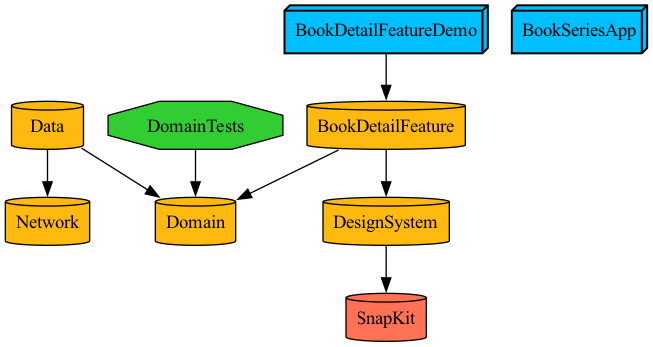
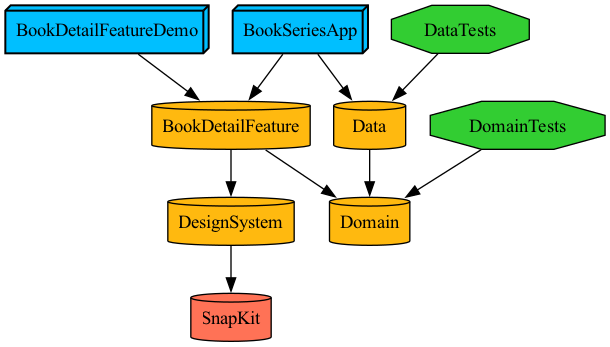
feat. fetch books use case 연결

diff --git a/Feature/BookDetail/Sources/BookDetailViewModel.swift b/Feature/BookDetail/Sources/BookDetailViewModel.swift
@@ -8,7 +8,7 @@
 import Foundation
 import Domain
 
-public class BookDetailViewModel {
+public final class BookDetailViewModel {
     private let fetchBookUseCase: FetchBooksUseCase?
     private var bookModels: [BookDetailModel] = []
     private var currentModelId: UUID?
@@ -16,148 +16,7 @@ public class BookDetailViewModel {
     // Mock 데이터용 초기화
     public init(fetchBookUseCase: FetchBooksUseCase? = nil) {
         self.fetchBookUseCase = fetchBookUseCase
-        setupMockModels()
     }
-    
-    private func setupMockModels() {
-        bookModels = mockBooks.enumerated().map { index, book in
-            BookDetailModel(seriesOrder: index + 1, book: book)
-        }
-        currentModelId = bookModels.first?.id
-    }
-    
-    // MARK: - Mock Data
-    private let mockBooks: [Book] = [
-        // 1권
-        Book(
-            title: "Harry Potter and the Philosopher's Stone",
-            author: "J. K. Rowling",
-            pages: 223,
-            releaseDate: "1997-06-26",
-            dedication: "For Jessica, who loves stories, for Anne, who loved them too, and for Di, who heard this one first",
-            summary: "Harry Potter has never even heard of Hogwarts when the letters start dropping on the doormat at number four, Privet Drive.",
-            wiki: "https://harrypotter.fandom.com/wiki/Harry_Potter_and_the_Philosopher's_Stone",
-            chapters: [
-                Chapter(title: "1. The Boy Who Lived"),
-                Chapter(title: "2. The Vanishing Glass"),
-                Chapter(title: "3. The Letter from No One"),
-                Chapter(title: "4. The Keeper of the Keys"),
-                Chapter(title: "5. Diagon Alley"),
-                Chapter(title: "1. The Boy Who Lived"),
-                Chapter(title: "2. The Vanishing Glass"),
-                Chapter(title: "3. The Letter from No One"),
-                Chapter(title: "4. The Keeper of the Keys"),
-                Chapter(title: "5. Diagon Alley"),
-                Chapter(title: "1. The Boy Who Lived"),
-                Chapter(title: "2. The Vanishing Glass"),
-                Chapter(title: "3. The Letter from No One"),
-                Chapter(title: "4. The Keeper of the Keys"),
-                Chapter(title: "5. Diagon Alley")
-            ]
-        ),
-        // 2권
-        Book(
-            title: "Harry Potter and the Chamber of Secrets",
-            author: "J. K. Rowling",
-            pages: 251,
-            releaseDate: "1998-07-02",
-            dedication: "For Séan P. F. Harris, getaway driver and foul-weather friend",
-            summary: "Harry Potter's summer has included the worst birthday ever, doomy warnings from a house-elf called Dobby.",
-            wiki: "https://harrypotter.fandom.com/wiki/Harry_Potter_and_the_Chamber_of_Secrets",
-            chapters: [
-                Chapter(title: "1. The Worst Birthday"),
-                Chapter(title: "2. Dobby's Warning"),
-                Chapter(title: "3. The Burrow"),
-                Chapter(title: "4. At Flourish and Blotts"),
-                Chapter(title: "5. The Whomping Willow")
-            ]
-        ),
-        // 3권
-        Book(
-            title: "Harry Potter and the Prisoner of Azkaban",
-            author: "J. K. Rowling",
-            pages: 317,
-            releaseDate: "1999-07-08",
-            dedication: "To Jill Prewett and Aine Kiely, the Godmothers of Swing",
-            summary: "When the Knight Bus crashes through the darkness and screeches to a halt in front of him, it's the start of another far from ordinary year at Hogwarts for Harry Potter.",
-            wiki: "https://harrypotter.fandom.com/wiki/Harry_Potter_and_the_Prisoner_of_Azkaban",
-            chapters: [
-                Chapter(title: "1. Owl Post"),
-                Chapter(title: "2. Aunt Marge's Big Mistake"),
-                Chapter(title: "3. The Knight Bus"),
-                Chapter(title: "4. The Leaky Cauldron"),
-                Chapter(title: "5. The Dementor")
-            ]
-        ),
-        // 4권
-        Book(
-            title: "Harry Potter and the Goblet of Fire",
-            author: "J. K. Rowling",
-            pages: 636,
-            releaseDate: "2000-07-08",
-            dedication: "To Peter Rowling, in memory of Mr Ridley and to Susan Sladden, who helped Harry out of his cupboard",
-            summary: "The Triwizard Tournament is to be held at Hogwarts. Only wizards who are over seventeen are allowed to enter.",
-            wiki: "https://harrypotter.fandom.com/wiki/Harry_Potter_and_the_Goblet_of_Fire",
-            chapters: [
-                Chapter(title: "1. The Riddle House"),
-                Chapter(title: "2. The Scar"),
-                Chapter(title: "3. The Invitation"),
-                Chapter(title: "4. Back to The Burrow"),
-                Chapter(title: "5. Weasley's Wizard Wheezes")
-            ]
-        ),
-        // 5권
-        Book(
-            title: "Harry Potter and the Order of the Phoenix",
-            author: "J. K. Rowling",
-            pages: 766,
-            releaseDate: "2003-06-21",
-            dedication: "To Neil, Jessica and David, who make my world magical",
-            summary: "Dark times have come to Hogwarts. After the Dementors' attack on his cousin Dudley, Harry Potter knows that Voldemort will stop at nothing to find him.",
-            wiki: "https://harrypotter.fandom.com/wiki/Harry_Potter_and_the_Order_of_the_Phoenix",
-            chapters: [
-                Chapter(title: "1. Dudley Demented"),
-                Chapter(title: "2. A Peck of Owls"),
-                Chapter(title: "3. The Advance Guard"),
-                Chapter(title: "4. Number Twelve Grimmauld Place"),
-                Chapter(title: "5. The Order of the Phoenix")
-            ]
-        ),
-        // 6권
-        Book(
-            title: "Harry Potter and the Half-Blood Prince",
-            author: "J. K. Rowling",
-            pages: 607,
-            releaseDate: "2005-07-16",
-            dedication: "To Mackenzie, My beautiful daughter, I dedicate Her ink-and-paper twin.",
-            summary: "When Dumbledore arrives at Privet Drive one summer night to collect Harry Potter, his wand hand is blackened and shrivelled.",
-            wiki: "https://harrypotter.fandom.com/wiki/Harry_Potter_and_the_Half-Blood_Prince",
-            chapters: [
-                Chapter(title: "1. The Other Minister"),
-                Chapter(title: "2. Spinner's End"),
-                Chapter(title: "3. Will and Won't"),
-                Chapter(title: "4. Horace Slughorn"),
-                Chapter(title: "5. An Excess of Phlegm")
-            ]
-        ),
-        // 7권
-        Book(
-            title: "Harry Potter and the Deathly Hallows",
-            author: "J. K. Rowling",
-            pages: 610,
-            releaseDate: "2007-07-21",
-            dedication: "To Neil, To Jessica, To David, To Kenzie, To Di, To Anne, And to You If you have stuck with Harry until the very end.",
-            summary: "As he climbs into the sidecar of Hagrid's motorbike and takes to the skies, leaving Privet Drive for the last time.",
-            wiki: "https://harrypotter.fandom.com/wiki/Harry_Potter_and_the_Deathly_Hallows",
-            chapters: [
-                Chapter(title: "1. The Dark Lord Ascending"),
-                Chapter(title: "2. In Memoriam"),
-                Chapter(title: "3. The Dursleys Departing"),
-                Chapter(title: "4. The Seven Potters"),
-                Chapter(title: "5. Fallen Warrior")
-            ]
-        )
-    ]
     
     // MARK: - BookDetailModel Management
     public func getAllBookModels() -> [BookDetailModel] {
@@ -179,25 +38,8 @@ public class BookDetailViewModel {
         }
     }
     
-    // MARK: - Legacy Methods (for backward compatibility)
-    public func getBook(at index: Int) -> Book {
-        guard index >= 0 && index < mockBooks.count else {
-            return mockBooks[0]
-        }
-        return mockBooks[index]
-    }
-    
-    public func getAllBooks() -> [Book] {
-        return mockBooks
-    }
-    
     // MARK: - Future Implementation
     public func fetchBooks() async throws -> [Book] {
-        guard let fetchBookUseCase = fetchBookUseCase else {
-            // Mock 데이터 반환
-            return getAllBooks()
-        }
-        
-        return try await fetchBookUseCase.execute()
+        return try await fetchBookUseCase?.execute() ?? []
     }
 }

diff --git a/BookSeriesApp/Sources/SceneDelegate.swift b/BookSeriesApp/Sources/SceneDelegate.swift
@@ -1,4 +1,6 @@
 import UIKit
+import Domain
+import Data
 import BookDetailFeature
 
 class SceneDelegate: UIResponder, UIWindowSceneDelegate {
@@ -12,7 +14,13 @@ class SceneDelegate: UIResponder, UIWindowSceneDelegate {
     ) {
         guard let windowScene = (scene as? UIWindowScene) else { return }
         window = UIWindow(windowScene: windowScene)
-        window?.rootViewController = BookDetailViewController()
+        let repository: BooksRepository = LocalBooksRepository(
+            dataLoader: LocalFileLoader(),
+            decoder: JSONDataDecoder()
+        )
+        let useCase = FetchBooks(repository: repository)
+        let viewModel = BookDetailViewModel(fetchBookUseCase: useCase)
+        window?.rootViewController = BookDetailViewController(viewModel: viewModel)
         window?.makeKeyAndVisible()
     }
 }

diff --git a/BookSeriesApp/Project.swift b/BookSeriesApp/Project.swift
@@ -25,7 +25,8 @@ let project = Project(
             sources: ["Sources/**"],
             resources: ["Resources/**"],
             dependencies: [
-                .project(target: "BookDetailFeature", path: "../Feature/BookDetail")
+                .project(target: "BookDetailFeature", path: "../Feature/BookDetail"),
+                .project(target: "Data", path: "../Data")
             ]
         )
     ]
